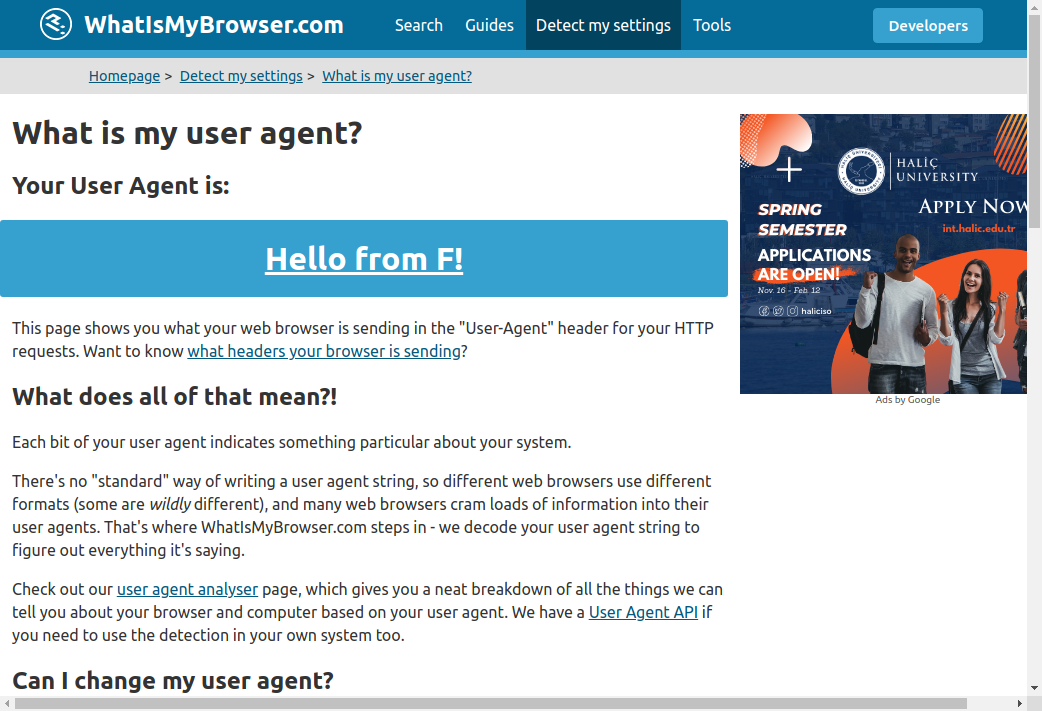
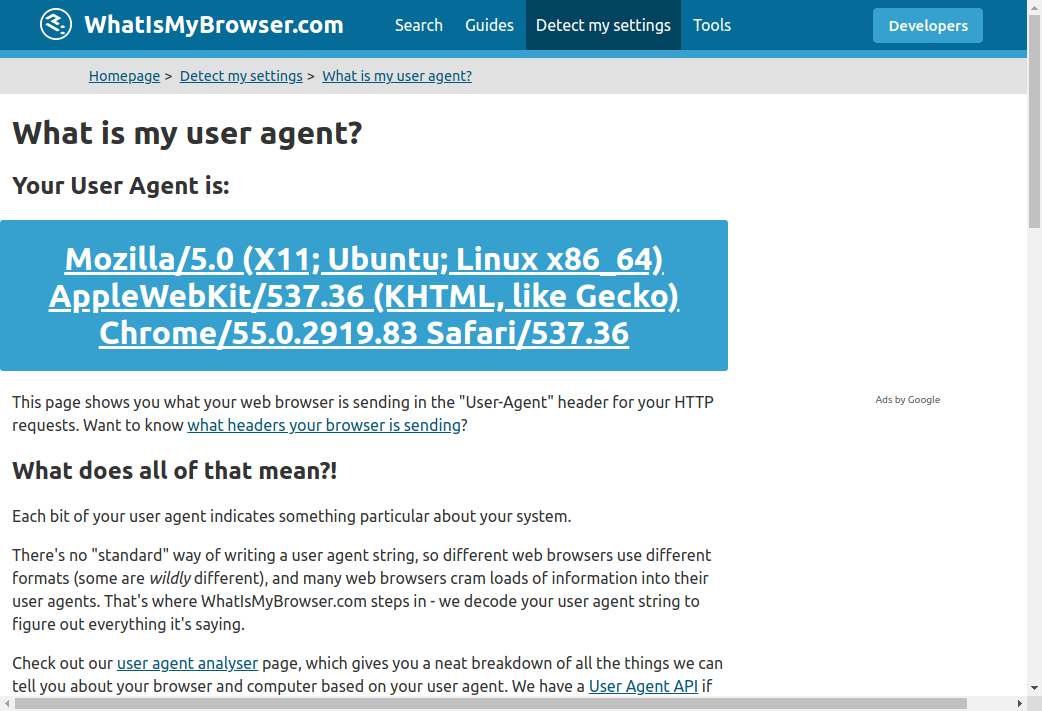
o2-User-Agent Используем библиотеку fake_useragent  time datetime  Вместо ручного управления данными  User-Agent мы используем специальную библиотеку https://pypi.org/project/fake-useragent/  Для сохранения скриншотов добавим в автоматические имена файлов дату и время

Changed region(s): [[0.0, 0.1547, 1.0, 0.9902]]

diff --git a/firefoxdriver/main.py b/firefoxdriver/main.py
@@ -1,13 +1,17 @@
 from selenium import webdriver
 import configparser
 import time
-import random
+from datetime import datetime
+# https://pypi.org/project/fake-useragent/ pip install fake-useragent
+from fake_useragent import UserAgent
 
-userAgents = [
-    "Hello from F!",
-    "best of the best",
-    "another world"
-]
+useragent = UserAgent()
+
+
+def get_file_name():
+    now = datetime.now()
+    return f"{now.year}-{now.month}-{now.day}_{now.hour}-{now.minute}-{now.second}_user_agent.png"
+
 
 #  Читаем настройки программы
 config = configparser.ConfigParser()
@@ -17,25 +21,16 @@ config.read("./../settings.ini")
 OS: str = config["OperatingSystem"]["OS"]
 siteUrl: str = config["Firefox"]["site_url"]
 driverPath: str = config["Firefox"]["driver_url"]
-# userAgent: str = config["Firefox"]["user_agent"]
 
 # Options
-options = webdriver .FirefoxOptions()
-# options.add_argument("user-agent=" + userAgent)
-options.add_argument(f"user-agent={random.choice(userAgents)}")
+options = webdriver.FirefoxOptions()
+# set_preference vs add_argument в Chrome
+options.set_preference("general.useragent.override", useragent. random)
+# Возможны варианты:
+#  Просто строка "Hello!"
+# Вариации браузера opera: useragent.opera
+# Полностью рандомные варианты  useragent.random
 
-# print("driverPath: " + driverPath)
-# print("siteUrl: " + siteUrl)
-# print("OS: " + OS)
-# print("userAgent: " + userAgent)
-
-#  Распарсить путь для ОС  Windows так:
-# C:\\users\\LearningSelenium\\chromedriver\\chromedriver.exe
-#  или так ( синтаксис сырой строки):  r"C:\users\LearningSelenium\chromedriver\chromedriver.exe"
-# if OS == "Windows":
-#     print("It is Windows")
-# else:
-#     print("It is not Windows")
 
 driver = webdriver.Firefox(
     executable_path=driverPath,
@@ -43,13 +38,10 @@ driver = webdriver.Firefox(
 )
 
 try:
-    # driver.get(url=siteUrl)
-    # driver.save_screenshot("Screenshot.png")
-    # time.sleep(3)
-
     # Проверка юзерагента
     driver.get("https://whatismybrowser.com/detect/what-is-my-user-agent")
-    driver.save_screenshot("UserAgent.png")
+
+    driver.save_screenshot(get_file_name())
     time.sleep(3)
 except Exception as ex:
     print("Error message:")

diff --git a/chromedriver/main.py b/chromedriver/main.py
@@ -1,13 +1,11 @@
 from selenium import webdriver
 import configparser
 import time
-import random
+# https://pypi.org/project/fake-useragent/ pip install fake-useragent
+from fake_useragent import UserAgent
+from datetime import datetime
 
-userAgents = [
-    "Hello from C!",
-    "best of the best",
-    "another world"
-]
+useragent = UserAgent()
 
 #  Читаем настройки программы
 config = configparser.ConfigParser()  # создаём объекта парсера
@@ -17,39 +15,30 @@ config.read("../settings.ini")  # читаем конфиг
 OS: str = config["OperatingSystem"]["OS"]
 siteUrl: str = config["Chrome"]["site_url"]
 driverPath: str = config["Chrome"]["driver_url"]
-# userAgent: str = config["Chrome"]["user_agent"]
-
-print("driverPath: " + driverPath)
-print("siteUrl: " + siteUrl)
-print("OS: " + OS)
-# print("userAgent: " + userAgent)
 
 # Options
 options = webdriver.ChromeOptions()
-# options.add_argument("user-agent=" + userAgent)
-options.add_argument(f"user-agent={random.choice(userAgents)}")
-
-#  Распарсить путь для ОС  Windows так:
-# "C:\\users\\LearningSelenium\\chromedriver\\chromedriver.exe"
-#  или так ( синтаксис сырой строки):  r"C:\users\LearningSelenium\chromedriver\chromedriver.exe"
-if OS == "Windows":
-    print("It is Windows")
-else:
-    print("It is not Windows")
+options.add_argument(f"user-agent={useragent.random}")
+# Возможны варианты:
+# Вариации браузера opera: useragent.opera
+# Полностью рандомные варианты  useragent.random
 
 driver = webdriver.Chrome(
     executable_path=driverPath,
     options=options
 )
 
-try:
-    # driver.get(url=siteUrl)
-    # driver.save_screenshot("Screenshot1.png")
-    # time.sleep(3)
 
+def get_file_name():
+    now = datetime.now()
+    return f"{now.year}-{now.month}-{now.day}_{now.hour}-{now.minute}-{now.second}_user_agent.png"
+
+
+try:
     # Проверка юзерагента
     driver.get("https://whatismybrowser.com/detect/what-is-my-user-agent")
-    driver.save_screenshot("UserAgent.png")
+    filename = get_file_name()
+    driver.save_screenshot(filename)
     time.sleep(3)
 except Exception as ex:
     print("Error message:")
